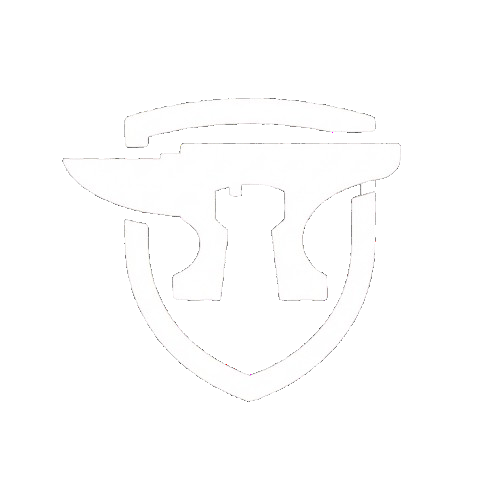
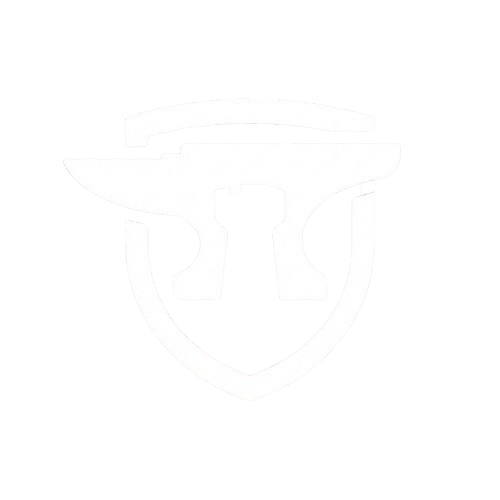
feat: Implement core game logic, UI, story mode, and add iron dice asset with a cleanup script.

Changed region(s): [[0.72, 0.36, 0.75, 0.39], [0.27, 0.42, 0.3, 0.45]]

diff --git a/RDproject/main.py b/RDproject/main.py
@@ -37,6 +37,7 @@ STATE_STORY_SELECT = "story_select"
 STATE_STORY = "story"
 STATE_INPUT_NAME = "input_name"
 STATE_LEADERBOARD = "leaderboard"
+STATE_CHAPTER_VICTORY = "chapter_victory"
 
 
 class Game:
@@ -95,6 +96,12 @@ class Game:
         self.game_time: float = 0.0  # Total real-time seconds elapsed in game
         self.trash_active: bool = False
         self._bg_surface: Optional[pygame.Surface] = None
+        
+        # Chapter statistics tracking
+        self.chapter_start_time: float = 0.0
+        self.chapter_start_coins: int = 0
+        self.chapter_coins_earned: int = 0
+        self.chapter_time_spent: float = 0.0
         
         # Lobby background dice decoration
         self.lobby_bg_dice = []
@@ -394,6 +401,10 @@ class Game:
             self.current_stage_index = 0
             self.state = STATE_STORY
             self.reset_runtime()
+            # Record chapter start statistics
+            import time
+            self.chapter_start_time = time.time()
+            self.chapter_start_coins = self.money
             self._load_current_story_stage()
 
     def _load_current_story_stage(self) -> None:
@@ -1085,9 +1096,18 @@ class Game:
                             self._load_current_story_stage()
                             return # Skip regular wave start for this frame
                         else:
-                            # Chapter complete!
-                            self.story_mgr.complete_stage(self.current_story_stage.stage_id)
-                            self.goto_story_select()
+                        # Chapter complete! Calculate statistics and show victory screen
+                            import time
+                            self.chapter_time_spent = time.time() - self.chapter_start_time
+                            self.chapter_coins_earned = self.money - self.chapter_start_coins
+                            
+                            # Mark chapter as completed
+                            if self.current_story_chapter:
+                                self.story_mgr.complete_chapter(self.current_story_chapter.chapter_id)
+                                self.story_mgr.save_progress()
+                            
+                            # Transition to victory screen
+                            self.state = STATE_CHAPTER_VICTORY
                             return
                     else:
                         # Fallback for single stage mode
@@ -1536,6 +1556,74 @@ class Game:
 
         self.loadout_back.draw(self.screen)
 
+    def chapter_victory_handle(self, event: pygame.event.Event) -> None:
+        """Handle events during chapter victory screen."""
+        if event.type == pygame.MOUSEBUTTONDOWN and event.button == 1:
+            # Check if continue button clicked (will add button below)
+            btn_w, btn_h = 300, 60
+            btn_x = (SCREEN_W - btn_w) // 2
+            btn_y = SCREEN_H - 150
+            btn_rect = pygame.Rect(btn_x, btn_y, btn_w, btn_h)
+            if btn_rect.collidepoint(event.pos):
+                self.goto_story_select()
+
+    def chapter_victory_draw(self) -> None:
+        """Draw the chapter victory screen with statistics."""
+        # Dark overlay background
+        self.screen.fill((15, 10, 25))
+        
+        # Victory title
+        title = self.font_huge.render("🎉 CHAPTER COMPLETE! 🎉", True, (255, 215, 0))
+        self.screen.blit(title, (SCREEN_W // 2 - title.get_width() // 2, 100))
+        
+        # Chapter name
+        if self.current_story_chapter:
+            chapter_name = self.font_big.render(self.current_story_chapter.name, True, (255, 180, 100))
+            self.screen.blit(chapter_name, (SCREEN_W // 2 - chapter_name.get_width() // 2, 180))
+        
+        # Statistics panel
+        panel_w, panel_h = 500, 300
+        panel_x = (SCREEN_W - panel_w) // 2
+        panel_y = 250
+        
+        # Panel background
+        panel_surf = pygame.Surface((panel_w, panel_h), pygame.SRCALPHA)
+        panel_surf.fill((30, 25, 40, 220))
+        pygame.draw.rect(panel_surf, (255, 180, 0), (0, 0, panel_w, panel_h), 3, border_radius=10)
+        self.screen.blit(panel_surf, (panel_x, panel_y))
+        
+        # Statistics text
+        stats_y = panel_y + 40
+        
+        # Coins earned
+        coins_text = f"💰 Coins Earned: {self.chapter_coins_earned}"
+        coins_surf = self.font_big.render(coins_text, True, (255, 215, 0))
+        self.screen.blit(coins_surf, (SCREEN_W // 2 - coins_surf.get_width() // 2, stats_y))
+        
+        # Time spent
+        minutes = int(self.chapter_time_spent // 60)
+        seconds = int(self.chapter_time_spent % 60)
+        time_text = f"⏱ Time: {minutes:02d}:{seconds:02d}"
+        time_surf = self.font_big.render(time_text, True, (150, 200, 255))
+        self.screen.blit(time_surf, (SCREEN_W // 2 - time_surf.get_width() // 2, stats_y + 80))
+        
+        # Continue button
+        btn_w, btn_h = 300, 60
+        btn_x = (SCREEN_W - btn_w) // 2
+        btn_y = SCREEN_H - 150
+        
+        mouse_pos = pygame.mouse.get_pos()
+        btn_rect = pygame.Rect(btn_x, btn_y, btn_w, btn_h)
+        is_hover = btn_rect.collidepoint(mouse_pos)
+        
+        btn_color = (80, 180, 80) if is_hover else (60, 140, 60)
+        pygame.draw.rect(self.screen, btn_color, btn_rect, border_radius=10)
+        pygame.draw.rect(self.screen, (100, 255, 100), btn_rect, 3, border_radius=10)
+        
+        btn_text = self.font_big.render("Continue", True, WHITE)
+        self.screen.blit(btn_text, (btn_x + (btn_w - btn_text.get_width()) // 2, 
+                                     btn_y + (btn_h - btn_text.get_height()) // 2))
+
     
     def story_select_draw(self) -> None:
         """Draw the story stage selection screen."""
@@ -1572,6 +1660,20 @@ class Game:
             
             txt = self.font_big.render(chapter.name, True, text_color)
             self.screen.blit(txt, (r.centerx - txt.get_width() // 2, r.centery - txt.get_height() // 2))
+            
+            # Draw checkmark if chapter is completed
+            if self.story_mgr.is_chapter_completed(chapter.chapter_id):
+                # Green circle background
+                check_size = 40
+                check_x = r.right - check_size - 10
+                check_y = r.top + 10
+                pygame.draw.circle(self.screen, (50, 200, 80), (check_x + check_size // 2, check_y + check_size // 2), check_size // 2)
+                pygame.draw.circle(self.screen, (100, 255, 120), (check_x + check_size // 2, check_y + check_size // 2), check_size // 2, 2)
+                
+                # White checkmark symbol
+                check_text = self.font_big.render("✓", True, WHITE)
+                self.screen.blit(check_text, (check_x + (check_size - check_text.get_width()) // 2, 
+                                               check_y + (check_size - check_text.get_height()) // 2))
         
         self.story_back.draw(self.screen)
     
@@ -1681,6 +1783,8 @@ class Game:
             self.input_name_draw()
         elif self.state == STATE_LEADERBOARD:
             self.leaderboard_draw()
+        elif self.state == STATE_CHAPTER_VICTORY:
+            self.chapter_victory_draw()
         pygame.display.flip()
 
     def run(self) -> None:
@@ -1734,6 +1838,8 @@ class Game:
                     self.input_name_handle(event)
                 elif self.state == STATE_LEADERBOARD:
                     self.leaderboard_handle(event)
+                elif self.state == STATE_CHAPTER_VICTORY:
+                    self.chapter_victory_handle(event)
 
             self.update(dt)
             self.draw()

diff --git a/RDproject/story_mode.py b/RDproject/story_mode.py
@@ -36,6 +36,7 @@ class StoryProgress:
     
     def __init__(self):
         self.completed_stages: List[str] = []
+        self.completed_chapters: List[str] = []
         self.current_stage: Optional[str] = None
         
     def is_stage_unlocked(self, stage_id: str, all_stages: List[StoryStage]) -> bool:
@@ -47,10 +48,20 @@ class StoryProgress:
         if stage_id not in self.completed_stages:
             self.completed_stages.append(stage_id)
     
+    def complete_chapter(self, chapter_id: str):
+        """Mark a chapter as completed."""
+        if chapter_id not in self.completed_chapters:
+            self.completed_chapters.append(chapter_id)
+    
+    def is_chapter_completed(self, chapter_id: str) -> bool:
+        """Check if a chapter is completed."""
+        return chapter_id in self.completed_chapters
+    
     def to_dict(self) -> Dict[str, Any]:
         """Convert to dictionary for saving."""
         return {
             'completed_stages': self.completed_stages,
+            'completed_chapters': self.completed_chapters,
             'current_stage': self.current_stage
         }
     
@@ -59,6 +70,7 @@ class StoryProgress:
         """Load from dictionary."""
         progress = StoryProgress()
         progress.completed_stages = data.get('completed_stages', [])
+        progress.completed_chapters = data.get('completed_chapters', [])
         progress.current_stage = data.get('current_stage', None)
         return progress
 
@@ -171,16 +183,24 @@ class StoryManager:
                     return stage
         return None
     
-    def is_stage_unlocked(self, stage_id: str, chapter_name: str = "hell") -> bool:
+    def is_stage_unlocked(self, stage_id: str) -> bool:
         """Check if a stage is unlocked."""
-        stages = self.get_chapter_stages(chapter_name)
-        return self.progress.is_stage_unlocked(stage_id, stages)
+        # For testing, all stages unlocked
+        return True
     
     def complete_stage(self, stage_id: str):
         """Mark a stage as completed (session-based)."""
         self.progress.complete_stage(stage_id)
-        # Persistence disabled
-        # self.save_progress()
+        self.save_progress()
+    
+    def complete_chapter(self, chapter_id: str):
+        """Mark a chapter as completed."""
+        self.progress.complete_chapter(chapter_id)
+        self.save_progress()
+    
+    def is_chapter_completed(self, chapter_id: str) -> bool:
+        """Check if a chapter is completed."""
+        return self.progress.is_chapter_completed(chapter_id)
     
     def save_progress(self):
         """Save progress to file."""

diff --git a/RDproject/ui.py b/RDproject/ui.py
@@ -106,11 +106,26 @@ def draw_panel(surf, rect, title, title_font, body_fn=None):
     if body_fn:
         body_fn()
 def draw_pips(surf, rect, level, color=WHITE):
-    """Draw dots (pips) for levels 1-6, and a star for level 7."""
+    """Draw dots (pips) for levels 1-7."""
     import pygame
-    if level >= 7:
-        # Star for level 7+
-        # Use a large font for the star
+    
+    pip_radius = max(3, int(rect.width / 12))
+    gap = rect.width // 4
+    
+    patterns = {
+        1: [(0, 0)],
+        2: [(-gap, -gap), (gap, gap)],
+        3: [(-gap, -gap), (0, 0), (gap, gap)],
+        4: [(-gap, -gap), (gap, -gap), (-gap, gap), (gap, gap)],
+        5: [(-gap, -gap), (gap, -gap), (0, 0), (-gap, gap), (gap, gap)],
+        # Level 6: Two columns of 3 pips each (3x2 grid)
+        6: [(-gap, -gap), (-gap, 0), (-gap, gap), (gap, -gap), (gap, 0), (gap, gap)],
+        # Level 7: 1-3-3 pyramid pattern (top center, middle row 3, bottom row 3)
+        7: [(0, -gap), (-gap, 0), (0, 0), (gap, 0), (-gap, gap), (0, gap), (gap, gap)],
+    }
+    
+    # For level 7+, use star
+    if level > 7:
         font_size = int(rect.height * 0.6)
         try:
             star_font = pygame.font.SysFont(["segoe uiemoji", "segoe ui symbol", "arial"], font_size, bold=True)
@@ -120,17 +135,6 @@ def draw_pips(surf, rect, level, color=WHITE):
         star = star_font.render("★", True, color)
         surf.blit(star, (rect.centerx - star.get_width()//2, rect.centery - star.get_height()//2))
         return
-
-    pip_radius = max(3, int(rect.width / 12))
-    gap = rect.width // 4
-    patterns = {
-        1: [(0, 0)],
-        2: [(-gap, -gap), (gap, gap)],
-        3: [(-gap, -gap), (0, 0), (gap, gap)],
-        4: [(-gap, -gap), (gap, -gap), (-gap, gap), (gap, gap)],
-        5: [(-gap, -gap), (gap, -gap), (0, 0), (-gap, gap), (gap, gap)],
-        6: [(-gap, -gap), (-gap, 0), (gap, 0), (-gap, gap), (0, gap), (gap, gap)],
-    }
     
     for dx, dy in patterns.get(level, []):
         pygame.draw.circle(surf, color, (rect.centerx + dx, rect.centery + dy), pip_radius)

diff --git a/RDproject/fix_iron_dice_v2.py b/RDproject/fix_iron_dice_v2.py
@@ -1,0 +1,37 @@
+from PIL import Image, ImageDraw
+import os
+
+# Load the iron dice image
+img_path = r"c:\Users\5594i\group_1\RDproject\assets\dice_iron.png"
+img = Image.open(img_path).convert("RGBA")
+
+# Get image dimensions
+width, height = img.size
+print(f"Image size: {width}x{height}")
+
+# Get pixel data
+pixels = img.load()
+
+# More aggressive removal - scan entire image for white dots
+# Focus on the top-right quadrant but be more thorough
+removed_count = 0
+
+for x in range(width):
+    for y in range(height):
+        r, g, b, a = pixels[x, y]
+        
+        # Remove very bright pixels (likely the white dot)
+        # More aggressive threshold
+        if a > 50:  # Only process non-transparent pixels
+            brightness = (r + g + b) / 3
+            if brightness > 220:  # Very bright pixels
+                # Check if it's isolated (likely a dot, not part of main design)
+                # Make it fully transparent
+                pixels[x, y] = (r, g, b, 0)
+                removed_count += 1
+
+print(f"Removed {removed_count} bright pixels")
+
+# Save the modified image
+img.save(img_path)
+print(f"Successfully cleaned {img_path}")

diff --git a/RDproject/fix_iron_dice.py b/RDproject/fix_iron_dice.py
@@ -1,0 +1,31 @@
+from PIL import Image, ImageDraw
+import os
+
+# Load the iron dice image
+img_path = r"c:\Users\5594i\group_1\RDproject\assets\dice_iron.png"
+img = Image.open(img_path).convert("RGBA")
+
+# Get image dimensions
+width, height = img.size
+
+# Define the area to remove the white dot (top-right corner)
+# Assuming the dot is roughly in the top-right 20% of the image
+dot_region_x = int(width * 0.75)  # Start from 75% width
+dot_region_y = 0  # Start from top
+dot_region_w = width - dot_region_x
+dot_region_h = int(height * 0.25)  # Cover top 25%
+
+# Get pixel data
+pixels = img.load()
+
+# Remove white/light colored pixels in the top-right region
+for x in range(dot_region_x, width):
+    for y in range(dot_region_y, dot_region_y + dot_region_h):
+        r, g, b, a = pixels[x, y]
+        # If pixel is very light (close to white), make it transparent
+        if r > 200 and g > 200 and b > 200 and a > 100:
+            pixels[x, y] = (r, g, b, 0)  # Make transparent
+
+# Save the modified image
+img.save(img_path)
+print(f"Successfully removed white dot from {img_path}")
